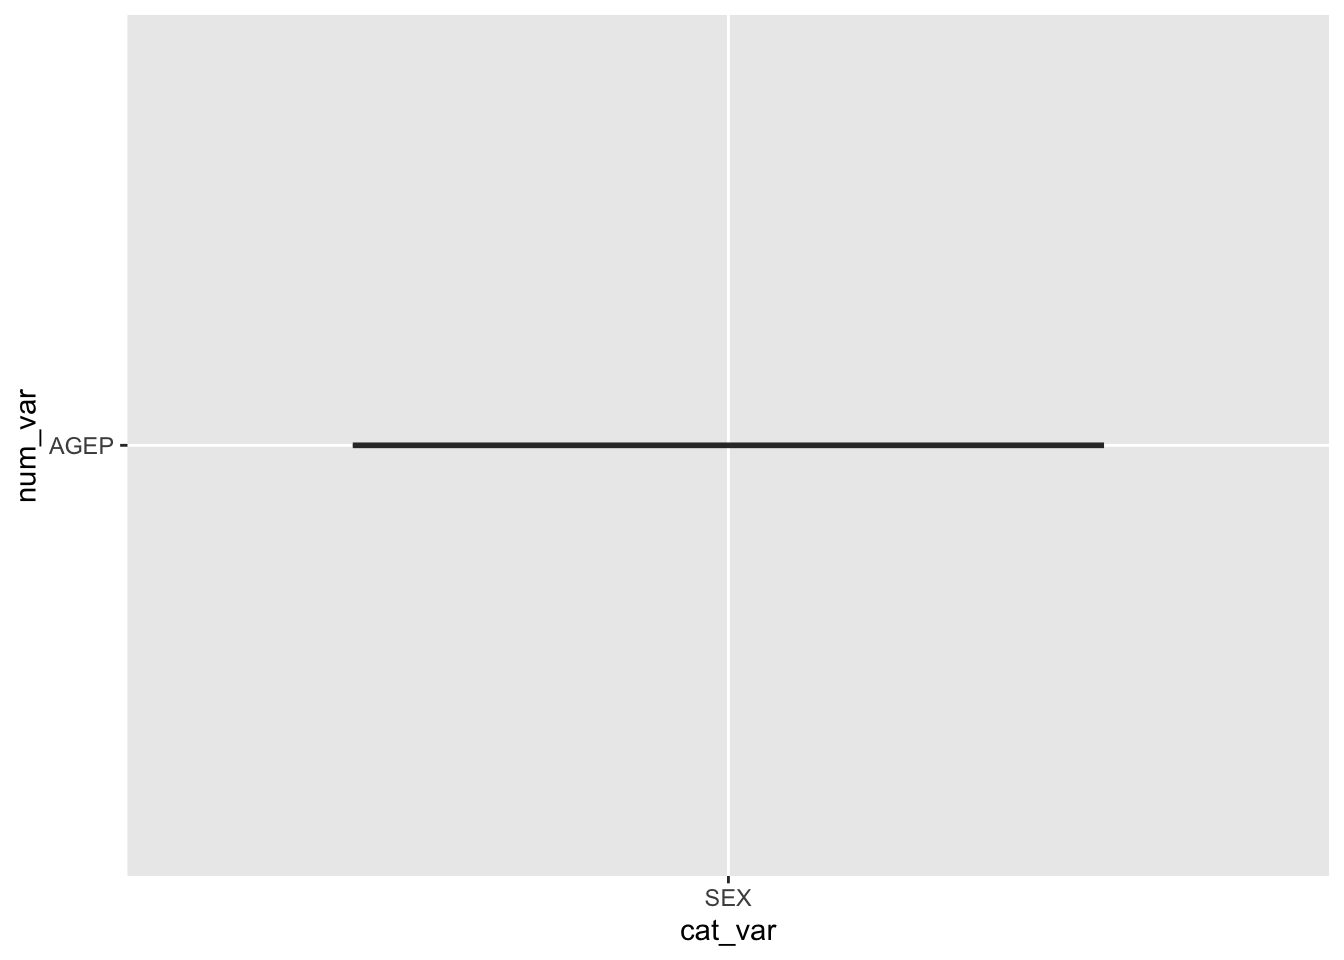
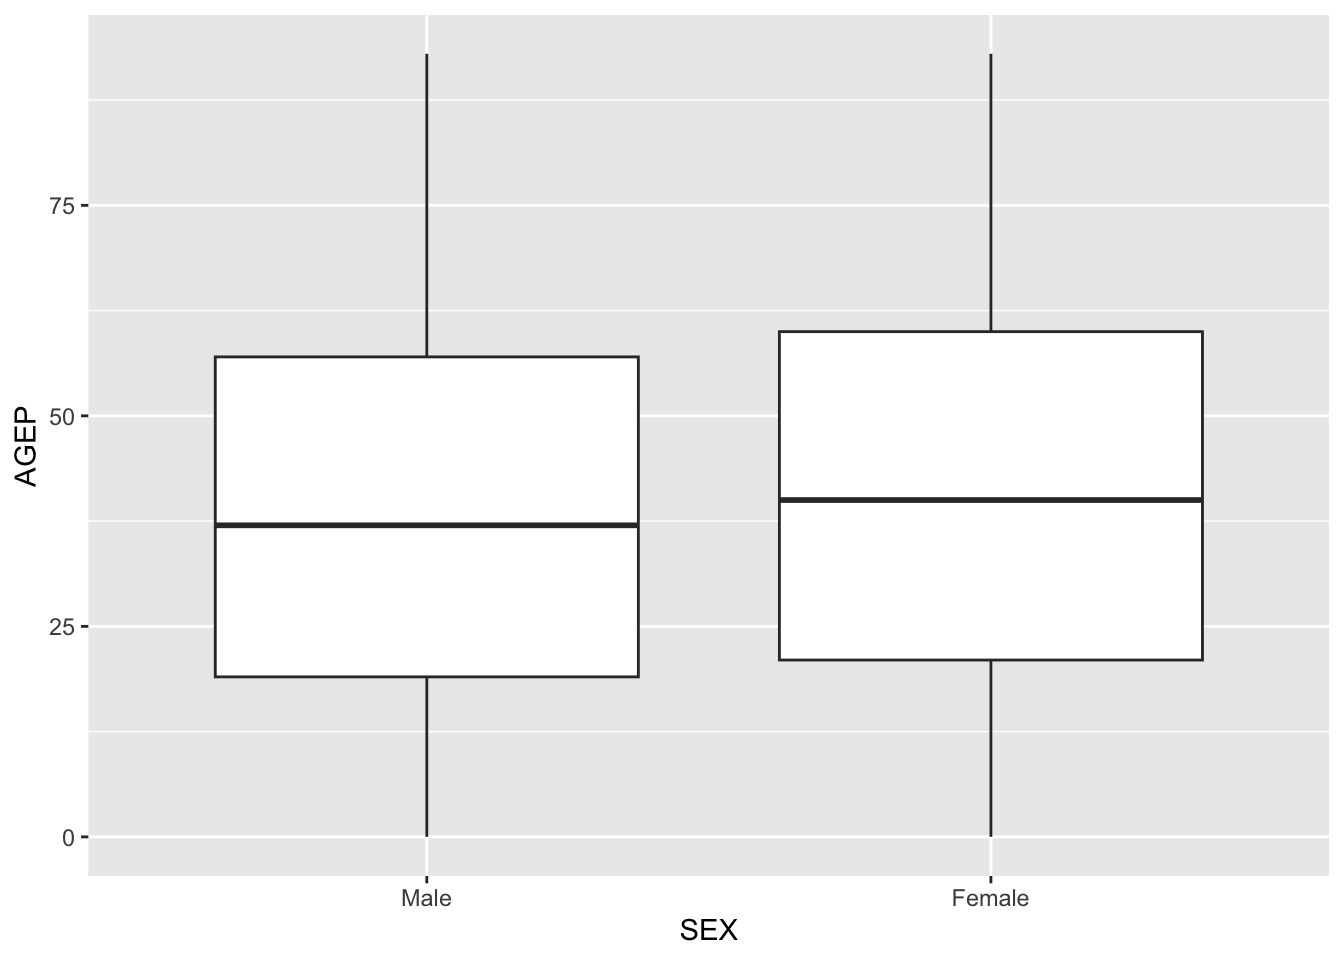
updates

diff --git a/Project1.html b/Project1.html
@@ -139,9 +139,9 @@ Attaching package: 'dplyr'</code></pre>
 <div class="cell-output cell-output-stderr">
 <pre><code>── Attaching core tidyverse packages ──────────────────────── tidyverse 2.0.0 ──
 ✔ forcats   1.0.0     ✔ readr     2.1.5
-✔ ggplot2   3.5.2     ✔ stringr   1.5.1
+✔ ggplot2   4.0.0     ✔ stringr   1.5.2
 ✔ lubridate 1.9.4     ✔ tibble    3.2.1
-✔ purrr     1.0.4     ✔ tidyr     1.3.1</code></pre>
+✔ purrr     1.1.0     ✔ tidyr     1.3.1</code></pre>
 </div>
 <div class="cell-output cell-output-stderr">
 <pre><code>── Conflicts ────────────────────────────────────────── tidyverse_conflicts() ──
@@ -173,9 +173,9 @@ Attaching package: 'dplyr'</code></pre>
   ..$ content-security-policy     : chr "default-src 'self'; img-src 'self' data:; object-src 'none'; script-src 'self' 'unsafe-inline'; style-src 'self"| __truncated__
   ..$ x-content-type-options      : chr "nosniff"
   ..$ content-type                : chr "application/json;charset=utf-8"
-  ..$ date                        : chr "Thu, 02 Oct 2025 03:10:23 GMT"
+  ..$ date                        : chr "Thu, 02 Oct 2025 03:15:21 GMT"
   ..$ strict-transport-security   : chr "max-age=31536000"
[2 lines of base64/hex data omitted]
   ..$ transfer-encoding           : chr "chunked"
   ..- attr(*, "class")= chr [1:2] "insensitive" "list"
  $ all_headers:List of 1
@@ -191,9 +191,9 @@ Attaching package: 'dplyr'</code></pre>
   .. .. ..$ content-security-policy     : chr "default-src 'self'; img-src 'self' data:; object-src 'none'; script-src 'self' 'unsafe-inline'; style-src 'self"| __truncated__
   .. .. ..$ x-content-type-options      : chr "nosniff"
   .. .. ..$ content-type                : chr "application/json;charset=utf-8"
-  .. .. ..$ date                        : chr "Thu, 02 Oct 2025 03:10:23 GMT"
+  .. .. ..$ date                        : chr "Thu, 02 Oct 2025 03:15:21 GMT"
   .. .. ..$ strict-transport-security   : chr "max-age=31536000"
[2 lines of base64/hex data omitted]
   .. .. ..$ transfer-encoding           : chr "chunked"
   .. .. ..- attr(*, "class")= chr [1:2] "insensitive" "list"
  $ cookies    :'data.frame':    1 obs. of  7 variables:
@@ -203,10 +203,10 @@ Attaching package: 'dplyr'</code></pre>
   ..$ secure    : logi TRUE
   ..$ expiration: POSIXct[1:1], format: "Inf"
   ..$ name      : chr "TS010383f0"
[2 lines of base64/hex data omitted]
  $ content    : raw [1:937508] 5b 5b 22 53 ...
- $ date       : POSIXct[1:1], format: "2025-10-02 03:10:23"
- $ times      : Named num [1:6] 0 0.0022 0.0244 0.0854 0.3149 ...
+ $ date       : POSIXct[1:1], format: "2025-10-02 03:15:21"
+ $ times      : Named num [1:6] 0 0.102 0.121 0.172 0.393 ...
   ..- attr(*, "names")= chr [1:6] "redirect" "namelookup" "connect" "pretransfer" ...
  $ request    :List of 7
   ..$ method    : chr "GET"
@@ -215,7 +215,7 @@ Attaching package: 'dplyr'</code></pre>
   .. ..- attr(*, "names")= chr "Accept"
   ..$ fields    : NULL
   ..$ options   :List of 2
-  .. ..$ useragent: chr "libcurl/8.14.1 r-curl/6.4.0 httr/1.4.7"
+  .. ..$ useragent: chr "libcurl/8.14.1 r-curl/7.0.0 httr/1.4.7"
   .. ..$ httpget  : logi TRUE
   ..$ auth_token: NULL
   ..$ output    : list()
@@ -498,7 +498,7 @@ Attaching package: 'dplyr'</code></pre>
 <span id="cb22-39"><a href="#cb22-39" aria-hidden="true" tabindex="-1"></a><span class="co"># Here we count the categorical variables</span></span>
 <span id="cb22-40"><a href="#cb22-40" aria-hidden="true" tabindex="-1"></a>   cat_counts <span class="ot">&lt;-</span> census <span class="sc">|&gt;</span></span>
 <span id="cb22-41"><a href="#cb22-41" aria-hidden="true" tabindex="-1"></a>      <span class="fu">as.data.frame</span>() <span class="sc">|&gt;</span></span>
-<span id="cb22-42"><a href="#cb22-42" aria-hidden="true" tabindex="-1"></a>     <span class="fu">select</span>(all_cat_vars, PWGTP) <span class="sc">|&gt;</span></span>
+<span id="cb22-42"><a href="#cb22-42" aria-hidden="true" tabindex="-1"></a>     <span class="fu">select</span>(<span class="fu">all_of</span>(all_cat_vars), PWGTP) <span class="sc">|&gt;</span></span>
 <span id="cb22-43"><a href="#cb22-43" aria-hidden="true" tabindex="-1"></a>  <span class="fu">pivot_longer</span>(</span>
 <span id="cb22-44"><a href="#cb22-44" aria-hidden="true" tabindex="-1"></a>    <span class="at">cols =</span> all_cat_vars,</span>
 <span id="cb22-45"><a href="#cb22-45" aria-hidden="true" tabindex="-1"></a>    <span class="at">names_to =</span> <span class="st">"variable"</span>,</span>
@@ -516,7 +516,7 @@ Attaching package: 'dplyr'</code></pre>
 <span id="cb22-57"><a href="#cb22-57" aria-hidden="true" tabindex="-1"></a><span class="co"># This handles if the user does not submit any numeric variables, only categorical. It will provide the counts for the categorical variables they provided </span></span>
 <span id="cb22-58"><a href="#cb22-58" aria-hidden="true" tabindex="-1"></a>  } <span class="cf">else</span> <span class="cf">if</span> (<span class="fu">is.null</span>(numeric_var)) { </span>
 <span id="cb22-59"><a href="#cb22-59" aria-hidden="true" tabindex="-1"></a>   cat_counts <span class="ot">&lt;-</span> census <span class="sc">|&gt;</span></span>
-<span id="cb22-60"><a href="#cb22-60" aria-hidden="true" tabindex="-1"></a>     <span class="fu">select</span>(all_cat_vars, PWGTP) <span class="sc">|&gt;</span></span>
+<span id="cb22-60"><a href="#cb22-60" aria-hidden="true" tabindex="-1"></a>     <span class="fu">select</span>(<span class="fu">all_of</span>(all_cat_vars), PWGTP) <span class="sc">|&gt;</span></span>
 <span id="cb22-61"><a href="#cb22-61" aria-hidden="true" tabindex="-1"></a>      <span class="fu">pivot_longer</span>(</span>
 <span id="cb22-62"><a href="#cb22-62" aria-hidden="true" tabindex="-1"></a>       <span class="at">cols =</span> <span class="fu">all_of</span>(cat_var),</span>
 <span id="cb22-63"><a href="#cb22-63" aria-hidden="true" tabindex="-1"></a>        <span class="at">names_to =</span> <span class="st">"variable"</span>,</span>
@@ -555,7 +555,7 @@ Attaching package: 'dplyr'</code></pre>
 <span id="cb22-96"><a href="#cb22-96" aria-hidden="true" tabindex="-1"></a><span class="co"># This handles if the user enters categorical and numeric variables</span></span>
 <span id="cb22-97"><a href="#cb22-97" aria-hidden="true" tabindex="-1"></a>  }<span class="cf">else</span>{</span>
 <span id="cb22-98"><a href="#cb22-98" aria-hidden="true" tabindex="-1"></a>      cat_counts <span class="ot">&lt;-</span> census <span class="sc">|&gt;</span></span>
-<span id="cb22-99"><a href="#cb22-99" aria-hidden="true" tabindex="-1"></a>     <span class="fu">select</span>(all_cat_vars, PWGTP) <span class="sc">|&gt;</span></span>
+<span id="cb22-99"><a href="#cb22-99" aria-hidden="true" tabindex="-1"></a>     <span class="fu">select</span>(<span class="fu">all_of</span>(all_cat_vars), PWGTP) <span class="sc">|&gt;</span></span>
 <span id="cb22-100"><a href="#cb22-100" aria-hidden="true" tabindex="-1"></a>      <span class="fu">pivot_longer</span>(</span>
 <span id="cb22-101"><a href="#cb22-101" aria-hidden="true" tabindex="-1"></a>       <span class="at">cols =</span> <span class="fu">all_of</span>(cat_var),</span>
 <span id="cb22-102"><a href="#cb22-102" aria-hidden="true" tabindex="-1"></a>        <span class="at">names_to =</span> <span class="st">"variable"</span>,</span>
@@ -748,7 +748,7 @@ $Categorical_Counts
     curve(expr = x, from = from, to = to, xlim = xlim, ylab = ylab, 
         ...)
 }
-&lt;bytecode: 0x12f040f08&gt;
+&lt;bytecode: 0x13e70b588&gt;
 &lt;environment: namespace:graphics&gt;</code></pre>
 </div>
 <div class="sourceCode cell-code" id="cb39"><pre class="sourceCode r code-with-copy"><code class="sourceCode r"><span id="cb39-1"><a href="#cb39-1" aria-hidden="true" tabindex="-1"></a><span class="fu">getS3method</span>(<span class="st">"plot"</span>,<span class="st">"data.frame"</span>) <span class="co">#what is used for a class = data frame</span></span></code><button title="Copy to Clipboard" class="code-copy-button"><i class="bi"></i></button></pre></div>
@@ -773,24 +773,24 @@ $Categorical_Counts
         pairs(data.matrix(x), ...)
     }
 }
-&lt;bytecode: 0x12e6564d0&gt;
+&lt;bytecode: 0x13e3255d0&gt;
 &lt;environment: namespace:graphics&gt;</code></pre>
 </div>
 <div class="sourceCode cell-code" id="cb41"><pre class="sourceCode r code-with-copy"><code class="sourceCode r"><span id="cb41-1"><a href="#cb41-1" aria-hidden="true" tabindex="-1"></a>plot</span></code><button title="Copy to Clipboard" class="code-copy-button"><i class="bi"></i></button></pre></div>
 <div class="cell-output cell-output-stdout">
 <pre><code>function (x, y, ...) 
 UseMethod("plot")
-&lt;bytecode: 0x139962358&gt;
+&lt;bytecode: 0x118d0c218&gt;
 &lt;environment: namespace:base&gt;</code></pre>
 </div>
 <div class="sourceCode cell-code" id="cb43"><pre class="sourceCode r code-with-copy"><code class="sourceCode r"><span id="cb43-1"><a href="#cb43-1" aria-hidden="true" tabindex="-1"></a>census_plot <span class="ot">&lt;-</span><span class="cf">function</span>(census_data, cat_var, num_var){</span>
 <span id="cb43-2"><a href="#cb43-2" aria-hidden="true" tabindex="-1"></a><span class="fu">ggplot</span>(census_data,</span>
-<span id="cb43-3"><a href="#cb43-3" aria-hidden="true" tabindex="-1"></a><span class="fu">aes</span>(<span class="at">x =</span> cat_var, <span class="at">y =</span> num_var, <span class="at">weight =</span> PWGTP)) <span class="sc">+</span></span>
+<span id="cb43-3"><a href="#cb43-3" aria-hidden="true" tabindex="-1"></a> <span class="fu">aes</span>(<span class="at">x =</span> <span class="sc">!!</span><span class="fu">sym</span>(cat_var), <span class="at">y =</span> <span class="sc">!!</span><span class="fu">sym</span>(num_var), <span class="at">weight =</span> PWGTP)) <span class="sc">+</span></span>
 <span id="cb43-4"><a href="#cb43-4" aria-hidden="true" tabindex="-1"></a><span class="fu">geom_boxplot</span>()</span>
 <span id="cb43-5"><a href="#cb43-5" aria-hidden="true" tabindex="-1"></a>}</span>
 <span id="cb43-6"><a href="#cb43-6" aria-hidden="true" tabindex="-1"></a></span>
 <span id="cb43-7"><a href="#cb43-7" aria-hidden="true" tabindex="-1"></a><span class="co"># Test of plot function</span></span>
-<span id="cb43-8"><a href="#cb43-8" aria-hidden="true" tabindex="-1"></a><span class="fu">census_plot</span>(sample_data, <span class="at">cat_var =</span> <span class="st">"SEX"</span>, <span class="at">num_var =</span> <span class="st">"AGEP"</span>)</span></code><button title="Copy to Clipboard" class="code-copy-button"><i class="bi"></i></button></pre></div>
+<span id="cb43-8"><a href="#cb43-8" aria-hidden="true" tabindex="-1"></a><span class="fu">census_plot</span>(sample_data, <span class="at">cat_var=</span><span class="st">"SEX"</span>,<span class="at">num_var=</span><span class="st">"AGEP"</span>)</span></code><button title="Copy to Clipboard" class="code-copy-button"><i class="bi"></i></button></pre></div>
 <div class="cell-output-display">
 <div>
 <figure class="figure">
